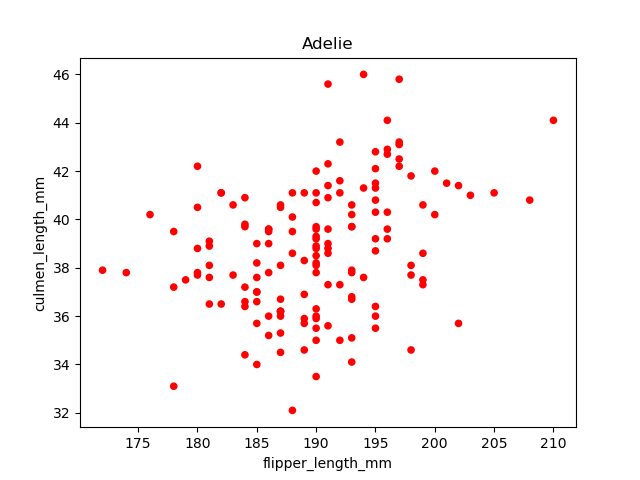
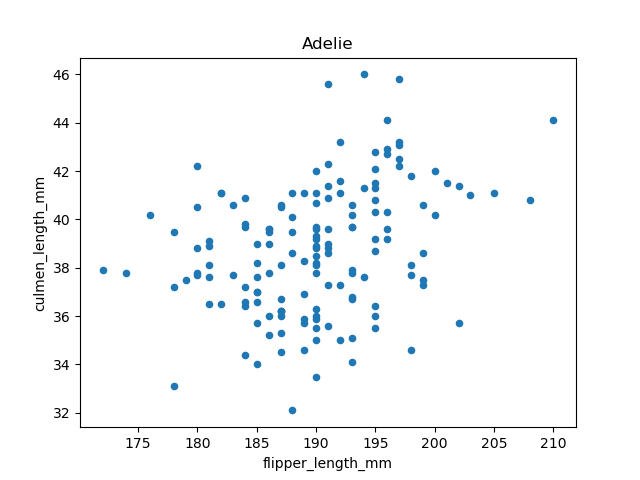
Blue Graphs

diff --git a/penguins.py b/penguins.py
@@ -16,5 +16,5 @@ penguins_size['colour'] = colour
 same_graph = penguins_size.plot.scatter(x = 'flipper_length_mm', y = 'culmen_length_mm', c = 'colour').get_figure()
 same_graph.savefig('same_graph.png')
 for key, frame in penguins_size.groupby('species'):
-  different_graphs = frame.plot.scatter(x = 'flipper_length_mm', y= 'culmen_length_mm', c = 'colour', title = key).get_figure()
+  different_graphs = frame.plot.scatter(x = 'flipper_length_mm', y= 'culmen_length_mm', title = key).get_figure()
   different_graphs.savefig('graph'+str(key)+'.png')
